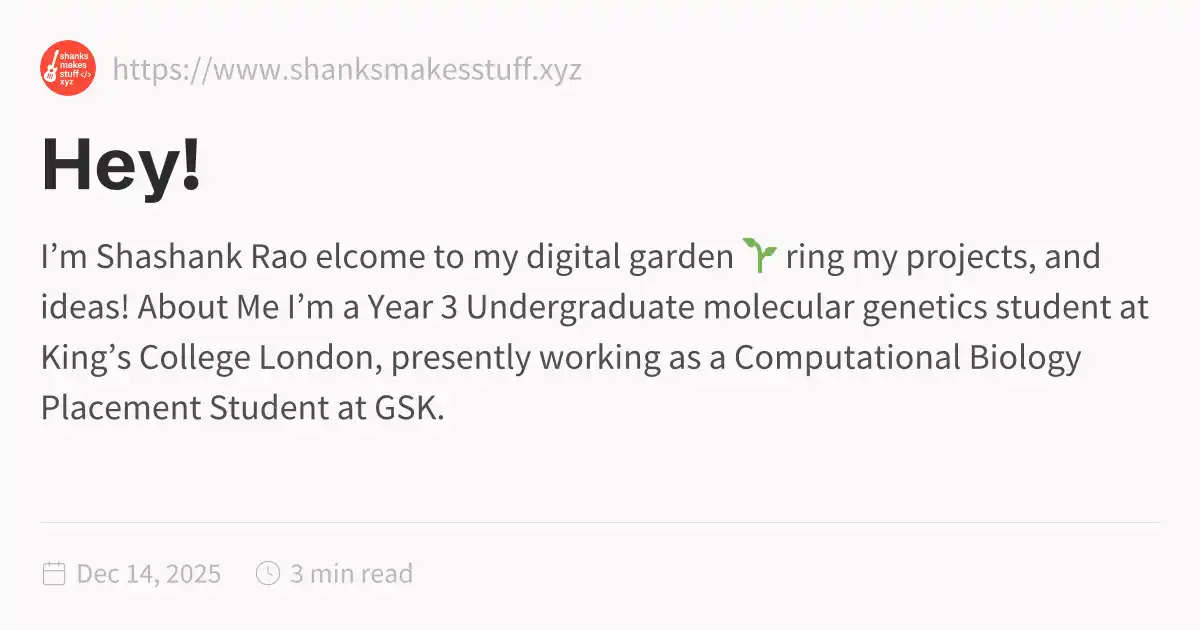
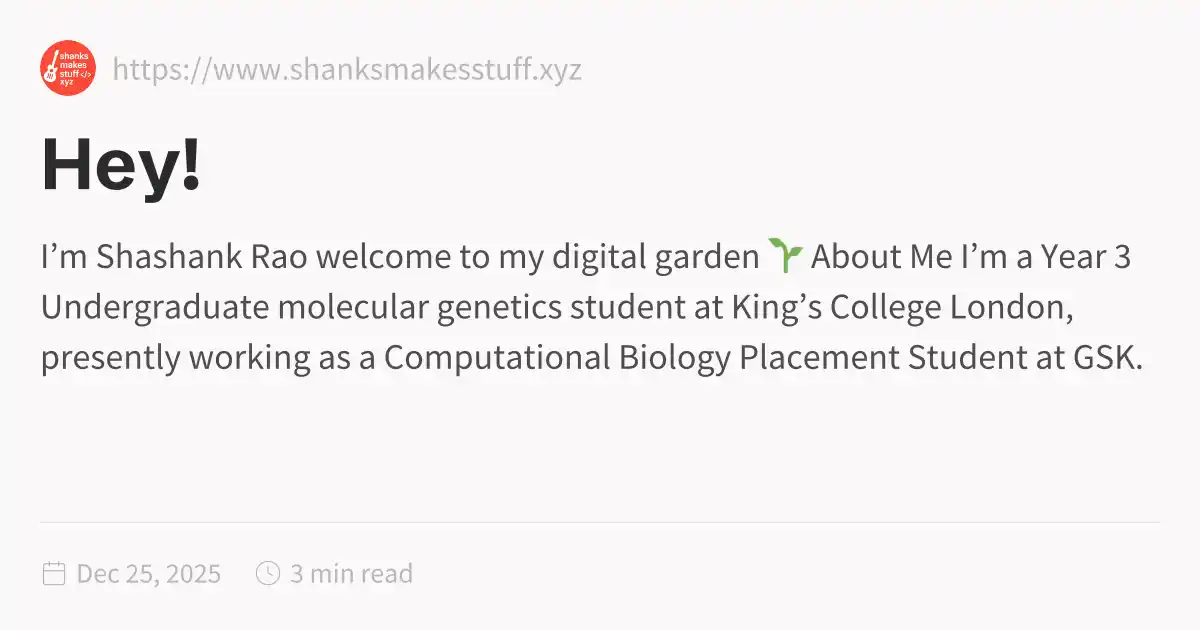
Auto-published: 2025-12-25T15:22:43.654Z

Changed region(s): [[0.0308, 0.3619, 0.9558, 0.5127], [0.0308, 0.5429, 0.9558, 0.6635], [0.0925, 0.9048, 0.1233, 0.9349]]

diff --git a/Hey!.html b/Hey!.html
@@ -1,5 +1,5 @@
 <!DOCTYPE html>
-<html lang="en"><head><title>Hey!</title><meta charset="utf-8"/><link rel="preconnect" href="https://fonts.googleapis.com"/><link rel="preconnect" href="https://fonts.gstatic.com"/><link rel="stylesheet" href="https://fonts.googleapis.com/css2?family=Schibsted Grotesk:wght@400;700&amp;family=Source Sans Pro:ital,wght@0,400;0,600;1,400;1,600&amp;family=IBM Plex Mono:wght@400;600&amp;display=swap"/><link rel="preconnect" href="https://cdnjs.cloudflare.com" crossorigin="anonymous"/><meta name="viewport" content="width=device-width, initial-scale=1.0"/><meta name="og:site_name" content="ShanksMakesStuff"/><meta property="og:title" content="Hey!"/><meta property="og:type" content="website"/><meta name="twitter:card" content="summary_large_image"/><meta name="twitter:title" content="Hey!"/><meta name="twitter:description" content="I’m Shashank Rao elcome to my digital garden 🌱 ring my projects, and ideas! About Me I’m a Year 3 Undergraduate molecular genetics student at King’s College London, presently working as a Computational Biology Placement Student at GSK."/><meta property="og:description" content="I’m Shashank Rao elcome to my digital garden 🌱 ring my projects, and ideas! About Me I’m a Year 3 Undergraduate molecular genetics student at King’s College London, presently working as a Computational Biology Placement Student at GSK."/><meta property="og:image:alt" content="I’m Shashank Rao elcome to my digital garden 🌱 ring my projects, and ideas! About Me I’m a Year 3 Undergraduate molecular genetics student at King’s College London, presently working as a Computational Biology Placement Student at GSK."/><meta property="twitter:domain" content="https://www.shanksmakesstuff.xyz"/><meta property="og:url" content="https://https//www.shanksmakesstuff.xyz/Hey!"/><meta property="twitter:url" content="https://https//www.shanksmakesstuff.xyz/Hey!"/><link rel="icon" href="./static/icon.png"/><meta name="description" content="I’m Shashank Rao elcome to my digital garden 🌱 ring my projects, and ideas! About Me I’m a Year 3 Undergraduate molecular genetics student at King’s College London, presently working as a Computational Biology Placement Student at GSK."/><meta name="generator" content="Quartz"/><link href="./index.css" rel="stylesheet" type="text/css" spa-preserve/><style>.expand-button {
+<html lang="en"><head><title>Hey!</title><meta charset="utf-8"/><link rel="preconnect" href="https://fonts.googleapis.com"/><link rel="preconnect" href="https://fonts.gstatic.com"/><link rel="stylesheet" href="https://fonts.googleapis.com/css2?family=Schibsted Grotesk:wght@400;700&amp;family=Source Sans Pro:ital,wght@0,400;0,600;1,400;1,600&amp;family=IBM Plex Mono:wght@400;600&amp;display=swap"/><link rel="preconnect" href="https://cdnjs.cloudflare.com" crossorigin="anonymous"/><meta name="viewport" content="width=device-width, initial-scale=1.0"/><meta name="og:site_name" content="ShanksMakesStuff"/><meta property="og:title" content="Hey!"/><meta property="og:type" content="website"/><meta name="twitter:card" content="summary_large_image"/><meta name="twitter:title" content="Hey!"/><meta name="twitter:description" content="I’m Shashank Rao welcome to my digital garden 🌱 About Me I’m a Year 3 Undergraduate molecular genetics student at King’s College London, presently working as a Computational Biology Placement Student at GSK."/><meta property="og:description" content="I’m Shashank Rao welcome to my digital garden 🌱 About Me I’m a Year 3 Undergraduate molecular genetics student at King’s College London, presently working as a Computational Biology Placement Student at GSK."/><meta property="og:image:alt" content="I’m Shashank Rao welcome to my digital garden 🌱 About Me I’m a Year 3 Undergraduate molecular genetics student at King’s College London, presently working as a Computational Biology Placement Student at GSK."/><meta property="twitter:domain" content="https://www.shanksmakesstuff.xyz"/><meta property="og:url" content="https://https//www.shanksmakesstuff.xyz/Hey!"/><meta property="twitter:url" content="https://https//www.shanksmakesstuff.xyz/Hey!"/><link rel="icon" href="./static/icon.png"/><meta name="description" content="I’m Shashank Rao welcome to my digital garden 🌱 About Me I’m a Year 3 Undergraduate molecular genetics student at King’s College London, presently working as a Computational Biology Placement Student at GSK."/><meta name="generator" content="Quartz"/><link href="./index.css" rel="stylesheet" type="text/css" spa-preserve/><style>.expand-button {
   position: absolute;
   display: flex;
   float: right;
@@ -116,8 +116,7 @@ pre:hover > .expand-button {
   padding: 0 12px;
   font-size: 14px;
 }
[1 lines of base64/hex data omitted]
-ring my projects, and ideas!
[1 lines of base64/hex data omitted]
 <br/>
 <br/></p>
 <h2 id="about-me">About Me<a role="anchor" aria-hidden="true" tabindex="-1" data-no-popover="true" href="#about-me" class="internal"><svg width="18" height="18" viewBox="0 0 24 24" fill="none" stroke="currentColor" stroke-width="2" stroke-linecap="round" stroke-linejoin="round"><path d="M10 13a5 5 0 0 0 7.54.54l3-3a5 5 0 0 0-7.07-7.07l-1.72 1.71"></path><path d="M14 11a5 5 0 0 0-7.54-.54l-3 3a5 5 0 0 0 7.07 7.07l1.71-1.71"></path></svg></a></h2>
